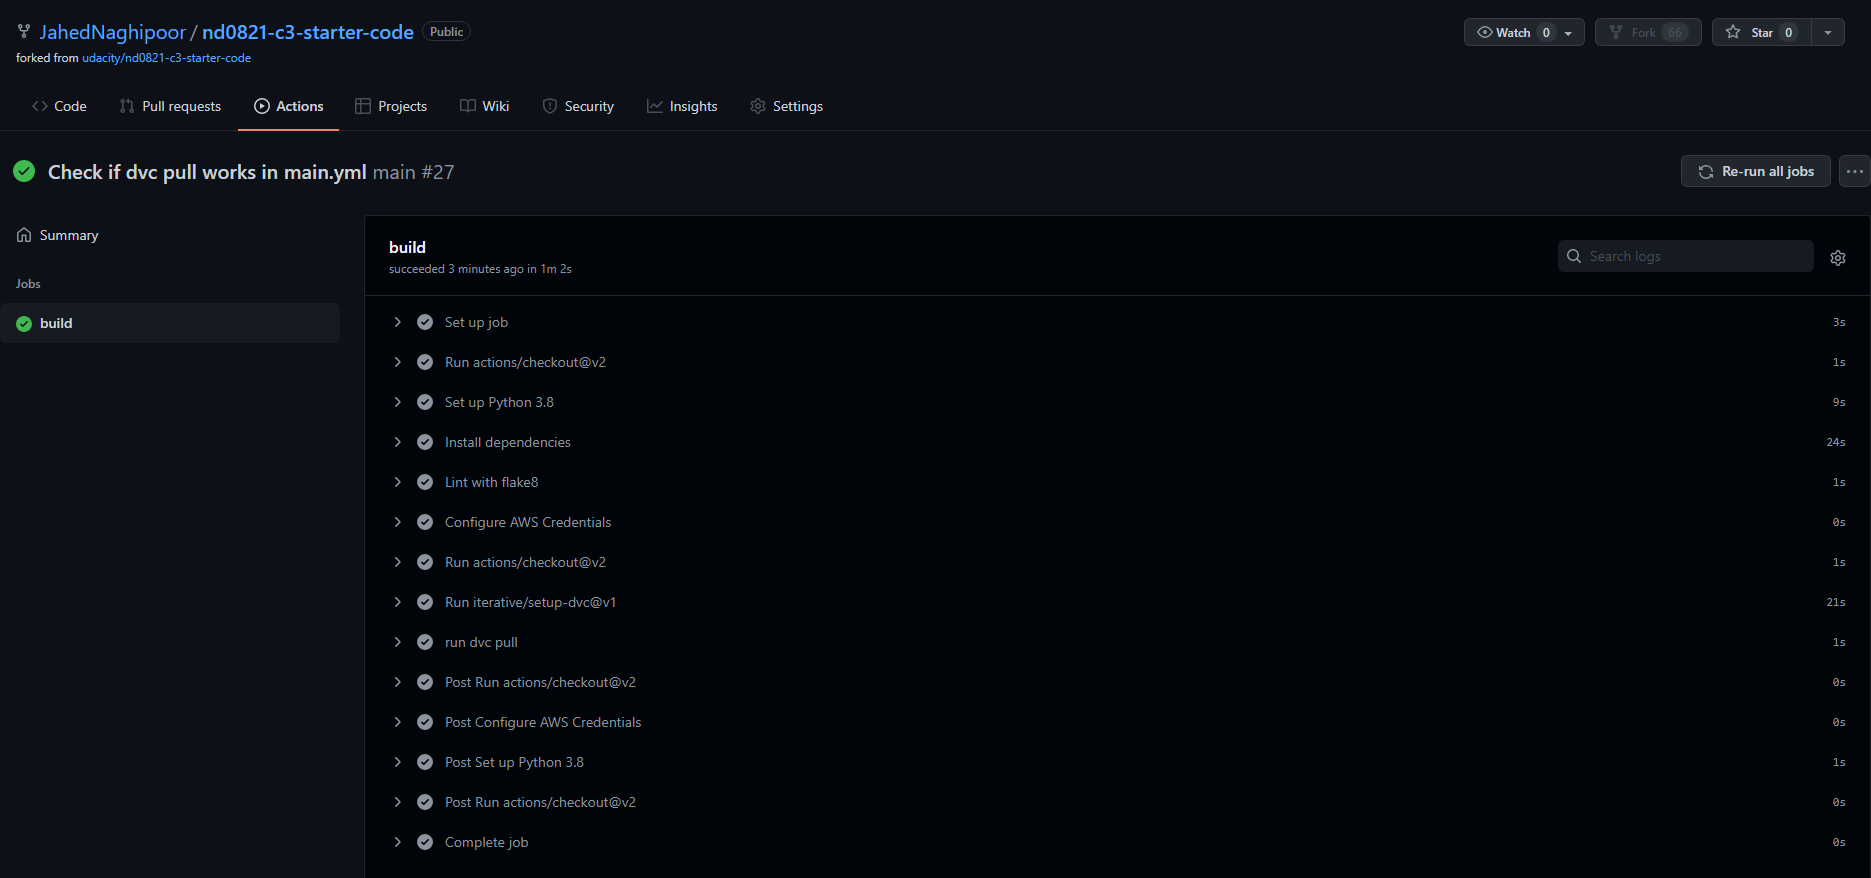
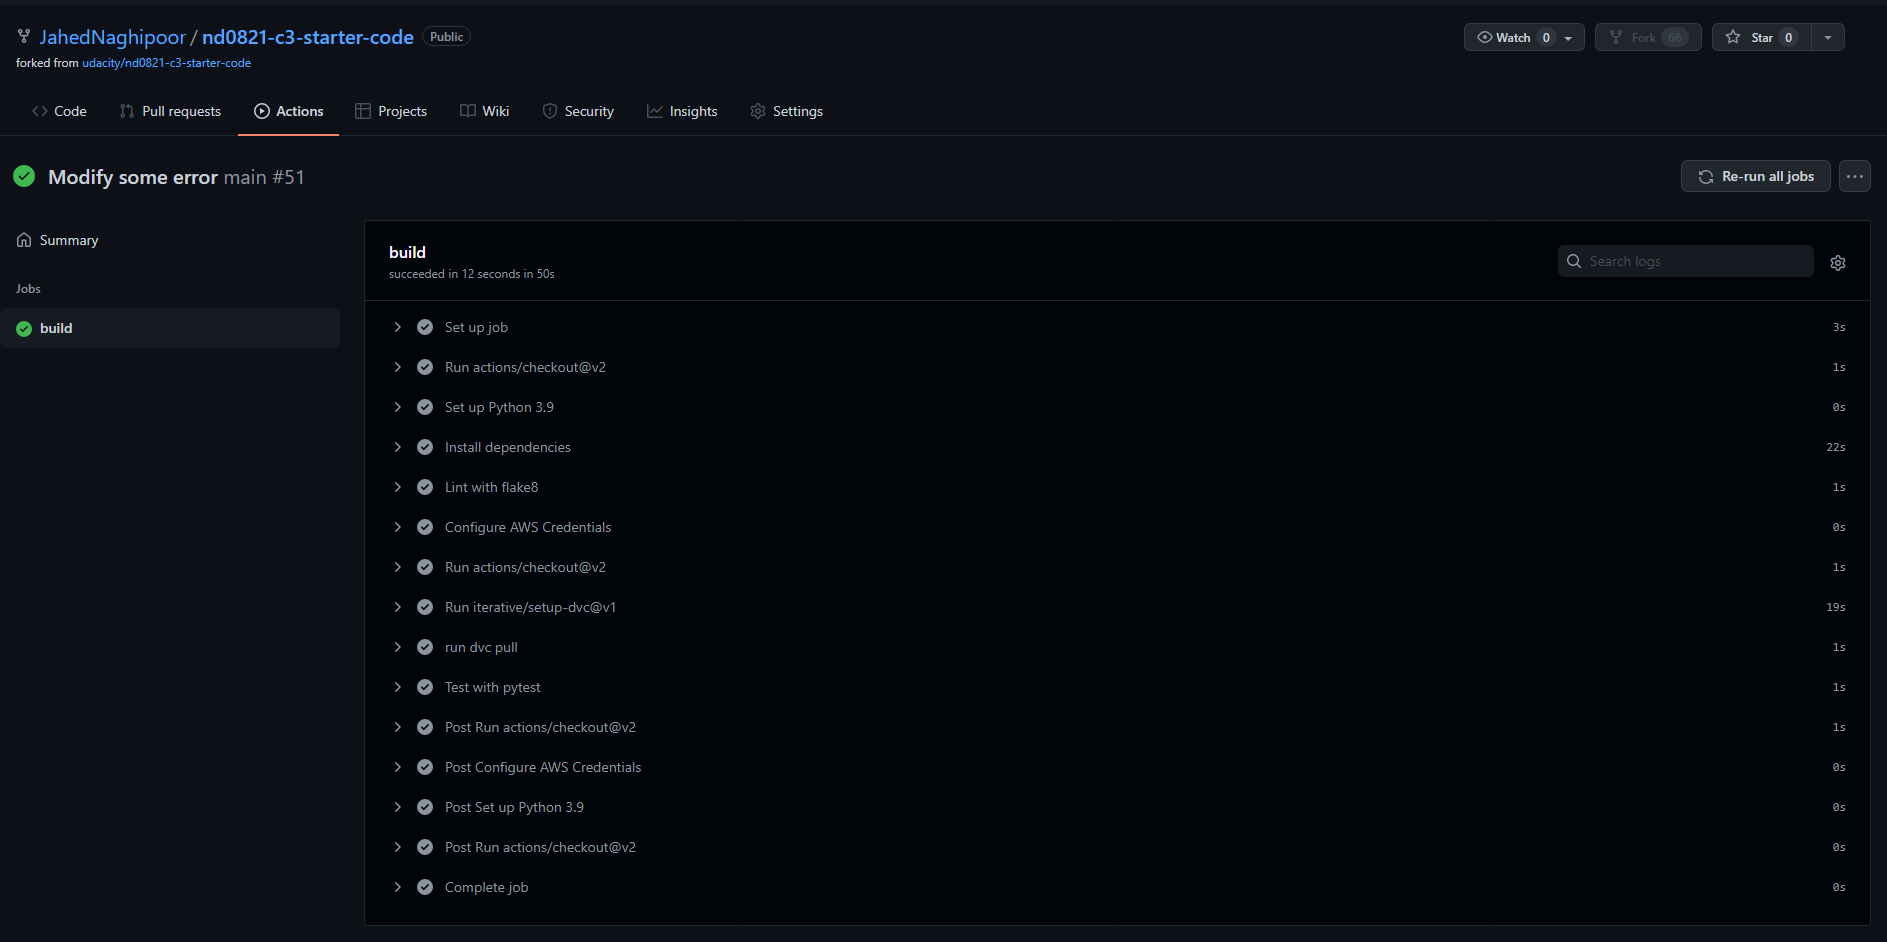
Check route predict

diff --git a/starter/main.py b/starter/main.py
@@ -4,7 +4,8 @@ This code is used to test the API.
 import os
 import pickle
 from fastapi import FastAPI
-from pydantic import BaseModel  # pydantic is a python data validation library
+# pydantic is a python data validation library
+from pydantic import BaseModel, Field
 import pandas as pd
 import numpy as np
 
@@ -46,19 +47,19 @@ app = FastAPI()  # initialize the application
 
 class Data(BaseModel):
     age: int
-    workclass: str
     fnlgt: int
+    education_num: int = Field(alias='education-num')
+    capital_gain: int = Field(alias='capital-gain')
+    capital_loss: int = Field(alias='capital-loss')
+    hours_per_week: int = Field(alias='hours-per-week')
+    workclass: str
     education: str
-    education_num: int
-    marital_status: str
+    marital_status: str = Field(alias='marital-status')
     occupation: str
     relationship: str
     race: str
     sex: str
-    capital_gain: int
-    capital_loss: int
-    hours_per_week: int
-    native_country: str
+    native_country: str = Field(alias='native-country')
 
 
 @app.get("/")  # greetings route

diff --git a/api.py b/api.py
@@ -3,6 +3,7 @@ This file contains the API for the application.
 Author: Jahed Naghipoor
 Date: December 2021
 Pylint score: 10/10
+autopep8: autopep8 --in-place --aggressive --aggressive app.py
 """
 import json
 import requests
@@ -26,10 +27,6 @@ sample = {
     'native-country': 'United-States'}
 
 request = requests.post(PREDICT_URI, json=sample)
-
-
-assert request.status_code == 200
-assert request.json() == {"prediction": 1}
 
 dictionary = {
     'Request body': sample,
